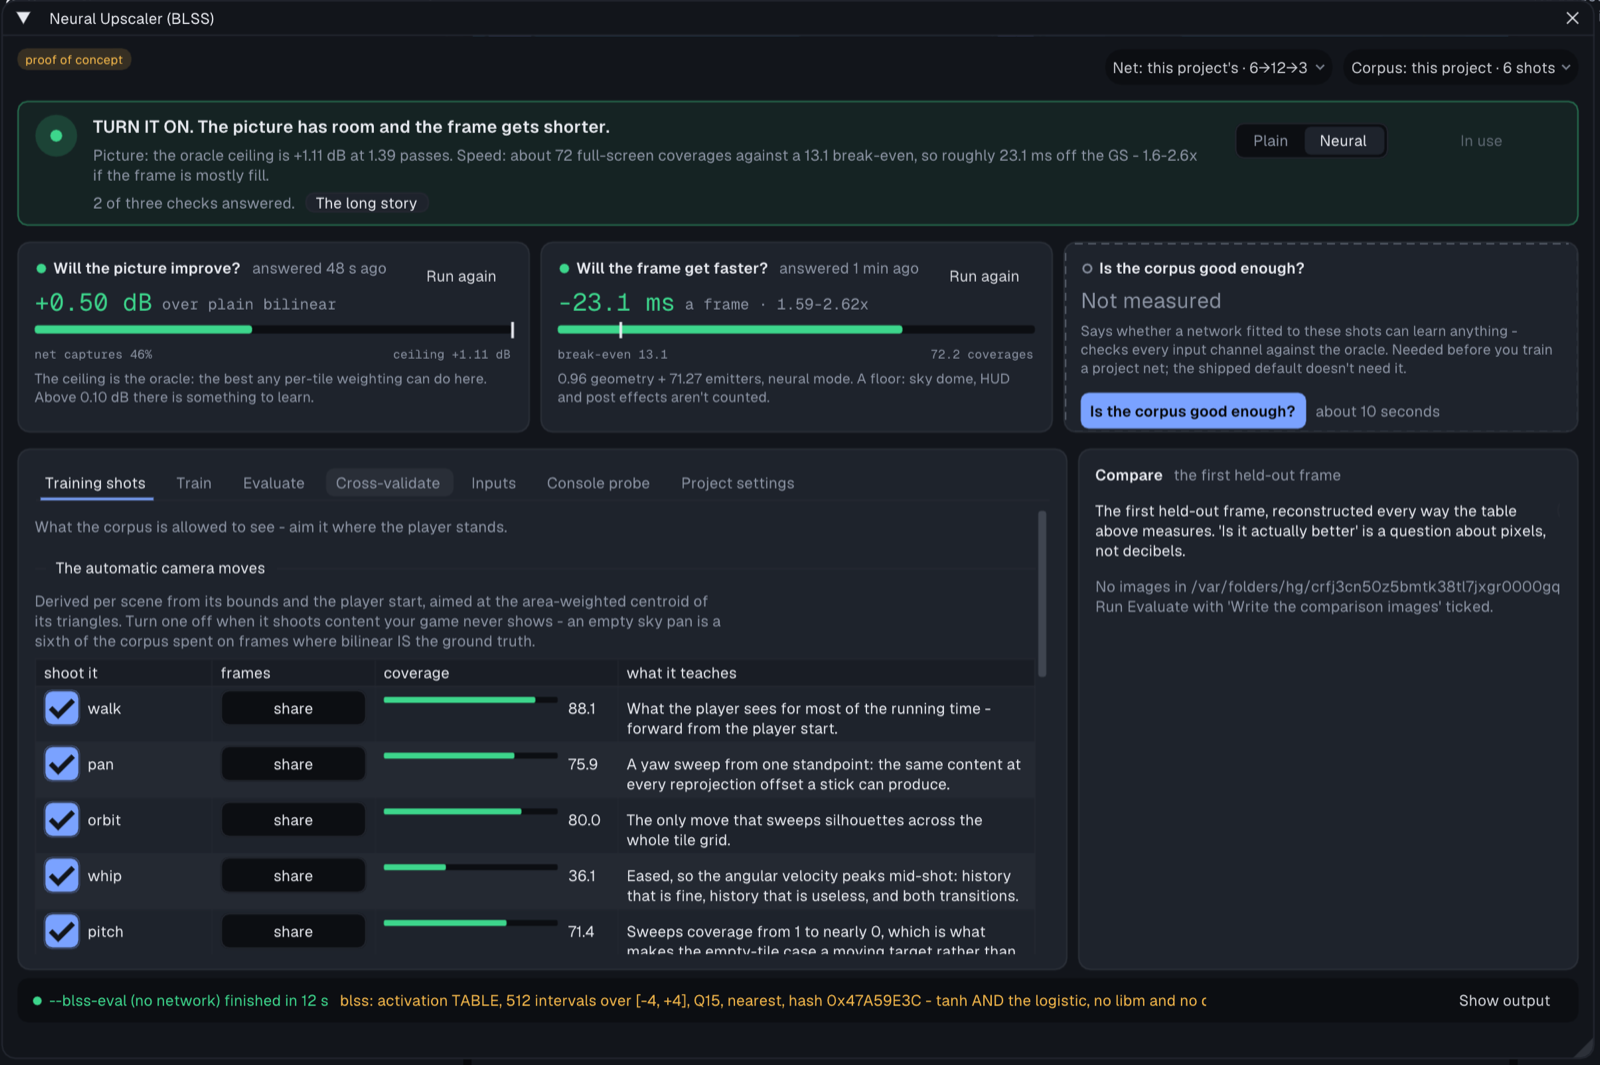
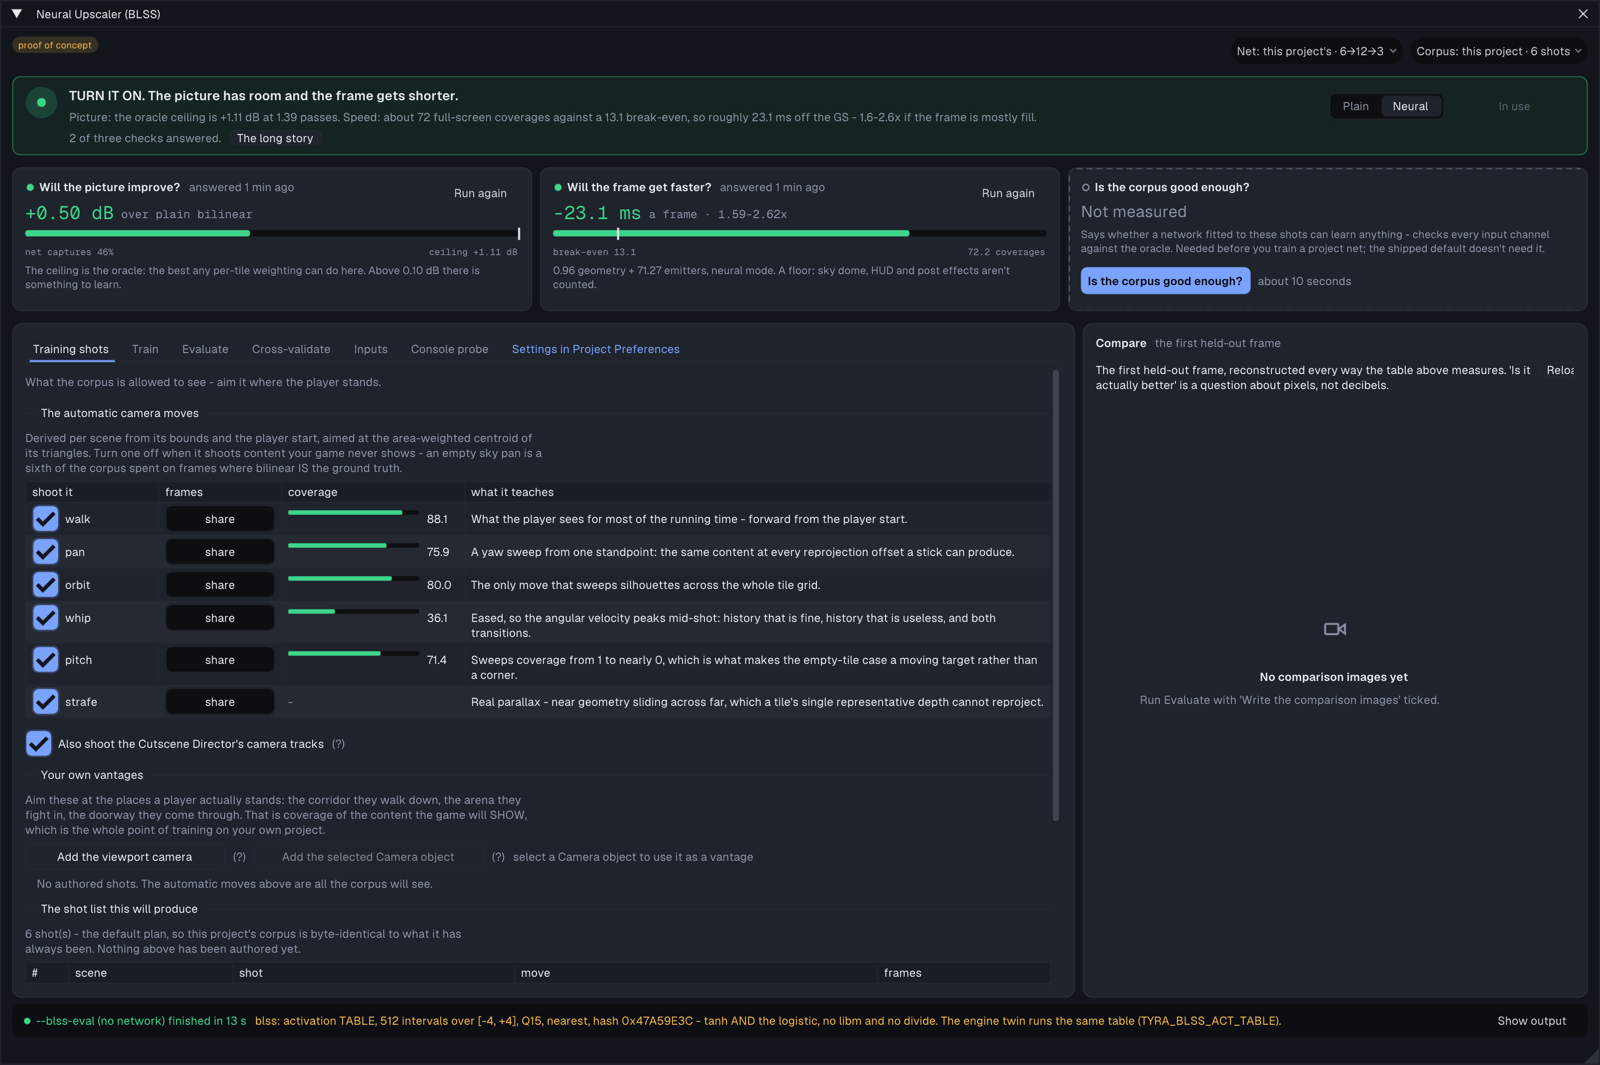
Neural Upscaler: no Project settings tab - a link to Project Preferences
Divergence (world/NeuralUpscaler board): the window still had a *Project
settings* tab; the design moved those settings to Project Preferences >
Display > Frame delivery, where the essentials already live.

Fix: the tab is gone; the tab row ends in "Settings in Project
Preferences", which opens Project Preferences on Display > Frame delivery.
The four network knobs that only that tab drew (Sharpen strength, Temporal
reuse, Sub-pixel jitter, Debug view) moved into drawBlssNetworkTuning and
Preferences draws them under "Tuning the network" in Frame delivery, as
label-left rows (switches/slider/combo, same labels). Texts that pointed at
the tab now point at Preferences. Docs: neural-upscaler.md (+ retaken
neural-upscaler.png), blss-reconstruction.md.

Verified: upscaler-lab copy - the window's tab row has no Project settings,
the link jumps to Display > Frame delivery and Tuning the network shows the
four controls; doc shot retaken after running the two checks.

diff --git a/src/blss_window.cpp b/src/blss_window.cpp
@@ -84,8 +84,7 @@ enum BlssTab {
     kTabCv,
     kTabCompare,
     kTabInputs,
-    kTabProbe,
-    kTabSettings
+    kTabProbe
 };
 
 struct DumpImage {
@@ -1165,7 +1164,15 @@ bool App::drawBlssSettings(ProjectSettings& s, BlssDetail detail) {
     // window never sees it. Four knobs and a debug view that are meaningless
     // without a training run behind them: the Essentials layer stops here.
     if (!full) return changed;
+    changed |= drawBlssNetworkTuning(s);
+    return changed;
+}
 
+// The network's four knobs (sharpen, temporal, jitter, debug view). Project
+// Preferences > Display > Frame delivery draws them under the Essentials, so
+// they have one home now that the upscaler window has no settings tab.
+bool App::drawBlssNetworkTuning(ProjectSettings& s) {
+    bool changed = false;
     ImGui::SeparatorText("Tuning the network");
     ImGui::BeginDisabled(!s.blssEnabled);
     {
@@ -1178,8 +1185,8 @@ bool App::drawBlssSettings(ProjectSettings& s, BlssDetail detail) {
                 "    NEURAL mode would be worth on this scene.");
 
         ImGui::BeginDisabled(!s.blssNetwork);
-        ImGui::SetNextItemWidth(scaled(120));
-        ImGui::DragFloat("Sharpen strength", &s.blssSharpen, 0.01f, 0.0f, 1.0f, "%.2f");
+        // Label-left rows like the Essentials above (Preferences' InspectorRows).
+        ui::SliderFloat("Sharpen strength", &s.blssSharpen, 0.0f, 1.0f, "%.2f");
         // Asked BEFORE prefHelp: a tooltip is a window and ImGui's "last item"
         // is context-global, so a prefHelp between the widget and this query
         // silently answers about the tooltip. One undo entry per drag, not one
@@ -1195,7 +1202,7 @@ bool App::drawBlssSettings(ProjectSettings& s, BlssDetail detail) {
             "charges for the sharpen passes at THIS strength - so the Train\n"
             "and Evaluate tabs pass it through.");
 
-        if (ImGui::Checkbox("Temporal reuse (reproject the previous frame)", &s.blssTemporal))
+        if (ui::Switch("Temporal reuse (reproject the previous frame)", &s.blssTemporal))
             changed = true;
         prefHelp(
             "Lets the network blend in the previously presented frame,\n"
@@ -1213,8 +1220,7 @@ bool App::drawBlssSettings(ProjectSettings& s, BlssDetail detail) {
             "temporal kernel available, so turning it off does not need and\n"
             "does not get a different network.");
 
-        if (ImGui::Checkbox("Sub-pixel jitter (the samples temporal reuse averages)",
-                            &s.blssJitter))
+        if (ui::Switch("Sub-pixel jitter (the samples temporal reuse averages)", &s.blssJitter))
             changed = true;
         prefHelp(
             "STABILITY AGAINST RECONSTRUCTION, and both sides are measured.\n"
@@ -1270,8 +1276,7 @@ bool App::drawBlssSettings(ProjectSettings& s, BlssDetail detail) {
         const char* debugNames[] = {
             "Off", "Tint by winning kernel (red = point, green = temporal, blue = sharpen)",
             "Log the feature spread to bin/log.txt (no tint)"};
-        ImGui::SetNextItemWidth(scaled(420));
-        if (ImGui::Combo("Debug view", &debug, debugNames, 3)) {
+        if (ui::Combo("Debug view", &debug, debugNames, 3)) {
             s.blssDebugView = debug;
             changed = true;
         }
@@ -1938,10 +1943,22 @@ void App::drawBlssWindow() {
         };
         static const T kTabs[] = {{kTabShots, "Training shots"}, {kTabTrain, "Train"},
                                   {kTabEval, "Evaluate"},        {kTabCv, "Cross-validate"},
-                                  {kTabInputs, "Inputs"},        {kTabProbe, "Console probe"},
-                                  {kTabSettings, "Project settings"}};
+                                  {kTabInputs, "Inputs"},        {kTabProbe, "Console probe"}};
         for (const T& t : kTabs)
             if (ui::QuietTab(t.label, blssTab_ == t.id, flag(t.id))) blssTab_ = t.id;
+        // The project's upscaler settings are not a tab of this window: they
+        // live in Project Preferences > Display > Frame delivery (the network
+        // knobs under "Tuning the network" there). This is the way to them.
+        ImGui::PushStyleColor(ImGuiCol_Text, theme::semantics().accent);
+        if (ImGui::TabItemButton("Settings in Project Preferences", ImGuiTabItemFlags_Trailing)) {
+            openProjectPreferences();
+            prefsFocusTab_ = "Display/Frame delivery";
+        }
+        ImGui::PopStyleColor();
+        if (ImGui::IsItemHovered())
+            ImGui::SetTooltip("Use the upscaler, Mode, Render scale, frame extrapolation and the\n"
+                              "network's tuning (sharpen, temporal, jitter, debug view) - Project\n"
+                              "Preferences > Display > Frame delivery.");
         ui::EndQuietTabBar();
     }
     ImGui::BeginChild("blsstabs", ImVec2(0, 0));
@@ -1951,12 +1968,6 @@ void App::drawBlssWindow() {
         case kTabCv: drawBlssCvTab(); break;
         case kTabInputs: drawBlssFeaturesTab(); break;
         case kTabProbe: drawBlssProbeTab(); break;
-        case kTabSettings:
-            ImGui::Spacing();
-            // EVERYTHING, because this is the advanced layer. Project >
-            // Preferences draws the same block at BlssDetail::Essentials.
-            if (drawBlssSettings(project_.settings, BlssDetail::Everything)) commitChange();
-            break;
         default: drawBlssShotsTab(); break;
     }
     ImGui::EndChild();
@@ -2158,8 +2169,8 @@ void App::drawBlssVerdictBanner() {
     if (s.blssEnabled) {
         ui::GhostButton("In use", useW, false);
         if (ImGui::IsItemHovered(ImGuiHoveredFlags_AllowWhenDisabled))
-            ImGui::SetTooltip("The project uses the upscaler. Turn it off in Project settings or\n"
-                              "Project Preferences > Display.");
+            ImGui::SetTooltip("The project uses the upscaler. Turn it off in Project Preferences >\n"
+                              "Display > Frame delivery.");
     } else {
         if (ui::PrimaryButton("Use in this project", useW, !blocked)) {
             s.blssEnabled = true;
@@ -3015,13 +3026,13 @@ void App::drawBlssTrainTab() {
                            "    A third of the corpus is withheld - this is a measurement "
                            "net, not the one to ship.");
 
-    ImGui::Text("Sharpen k: %.2f, render scale %s (both from Project settings)",
+    ImGui::Text("Sharpen k: %.2f, render scale %s (both from Project Preferences)",
                 project_.settings.blssSharpen,
                 project_.settings.blssScale == 1 ? "1x2" : "2x2");
     prefHelp(
         "The oracle charges for the two sharpen passes at the project's own\n"
         "k, so the labels depend on it - and the corpus renders at the\n"
-        "project's own scale. Change either on the Project settings tab;\n"
+        "project's own scale. Change either in Project Preferences > Display;\n"
         "training follows them rather than offering a second value that could\n"
         "disagree with what the game ships.");
 
@@ -4688,7 +4699,8 @@ void App::drawBlssProbeTab() {
             statusMessage_ = "BLSS: debug view 2 on - rebuild and run the game";
         }
         prefHelp(
-            "Sets the project's own 'Debug view' to 2 (Project settings tab). It\n"
+            "Sets the project's own 'Debug view' to 2 (Project Preferences >\n"
+            "Display > Frame delivery > Tuning the network). It\n"
             "does not tint the picture - it logs BLSSGRID / BLSSFEAT / BLSSOUT /\n"
             "BLSSFILL / BLSSWORST once a second. It IS compiled into the build, so\n"
             "set it back to Off before handing the game to anyone.");

diff --git a/src/app.hpp b/src/app.hpp
@@ -1211,6 +1211,7 @@ private:
     // so the ordinary interaction is a checkbox, a mode and one line to read.
     enum class BlssDetail { Essentials, Everything };
     bool drawBlssSettings(ProjectSettings& s, BlssDetail detail = BlssDetail::Everything);
+    bool drawBlssNetworkTuning(ProjectSettings& s);  // sharpen/temporal/jitter/debug view
     // The speed estimate priced for `s` rather than for the committed project.
     // One function, because the Preferences dialog must re-price live when the
     // reader flips the reconstruction (the two modes' break-evens are more than

diff --git a/src/app.cpp b/src/app.cpp
@@ -19241,6 +19241,9 @@ void App::drawPreferencesWindow() {
     // signal, the presentation and the reconstruction in one place.
     prefSection("Frame delivery (upscaler, extrapolation)");
     drawBlssSettings(prefSettings_, BlssDetail::Essentials);
+    // The network's own knobs - the Neural Upscaler window's old "Project
+    // settings" tab drew them; this is their only home now.
+    drawBlssNetworkTuning(prefSettings_);
     if (ImGui::Button("Advanced...", ImVec2(scaled(140), 0)))
         showBlss_ = true;
     prefHelp(

diff --git a/docs/neural-upscaler.md b/docs/neural-upscaler.md
@@ -30,9 +30,12 @@ and the corpus are two chips in the title row (*Net: ...*, *Corpus: ...*)
 whose menus hold the old header rows.
 
 Below, the authoring path is a row of tabs (*Training shots*, *Train*,
-*Evaluate*, *Cross-validate*, *Inputs*, *Console probe*, *Project settings*)
-beside a permanent **Compare** card - the picture is the hero of a picture
-tool. *Training shots* lists each automatic camera move's measured coverage
+*Evaluate*, *Cross-validate*, *Inputs*, *Console probe*) beside a permanent
+**Compare** card - the picture is the hero of a picture tool. The project's
+settings are not a tab here: *Settings in Project Preferences* at the end of
+the tab row opens **Project > Preferences > Display > Frame delivery**, which
+holds *Use the upscaler*, Mode, Render scale, frame extrapolation and, under
+*Tuning the network*, the network's sharpen / temporal / jitter / debug view. *Training shots* lists each automatic camera move's measured coverage
 as a bar (red under the break-even) once *Will the frame get faster?* has run,
 so you can see which moves pay. The tool's raw output is a one-line job strip
 at the bottom (last run, its time, its state) with *Show output*.

diff --git a/docs/blss-reconstruction.md b/docs/blss-reconstruction.md
@@ -542,8 +542,8 @@ twins get checked:
   line here sits next to a row of `--blss-eval --features`. It is compiled out of
   an `NDEBUG` build (`TYRA_LOG`), which the editor's own game build is not.
   **It is reachable from the UI**: *Debug view* → "Log the feature spread to
-  bin/log.txt (no tint)", in the upscaler window's *Project settings* tab and in
-  *Project ▸ Preferences*. Until `7d3dbf67` that combo offered only two entries
+  bin/log.txt (no tint)", in *Project ▸ Preferences ▸ Display ▸ Frame delivery*
+  (*Tuning the network*; the upscaler window links there). Until `7d3dbf67` that combo offered only two entries
   against a field the loader clamps to `0..2`, so reaching view 2 meant editing
   `"blssDebugView": 2` into the `.tyra` by hand and a project that already had it
   displayed as "Off".
